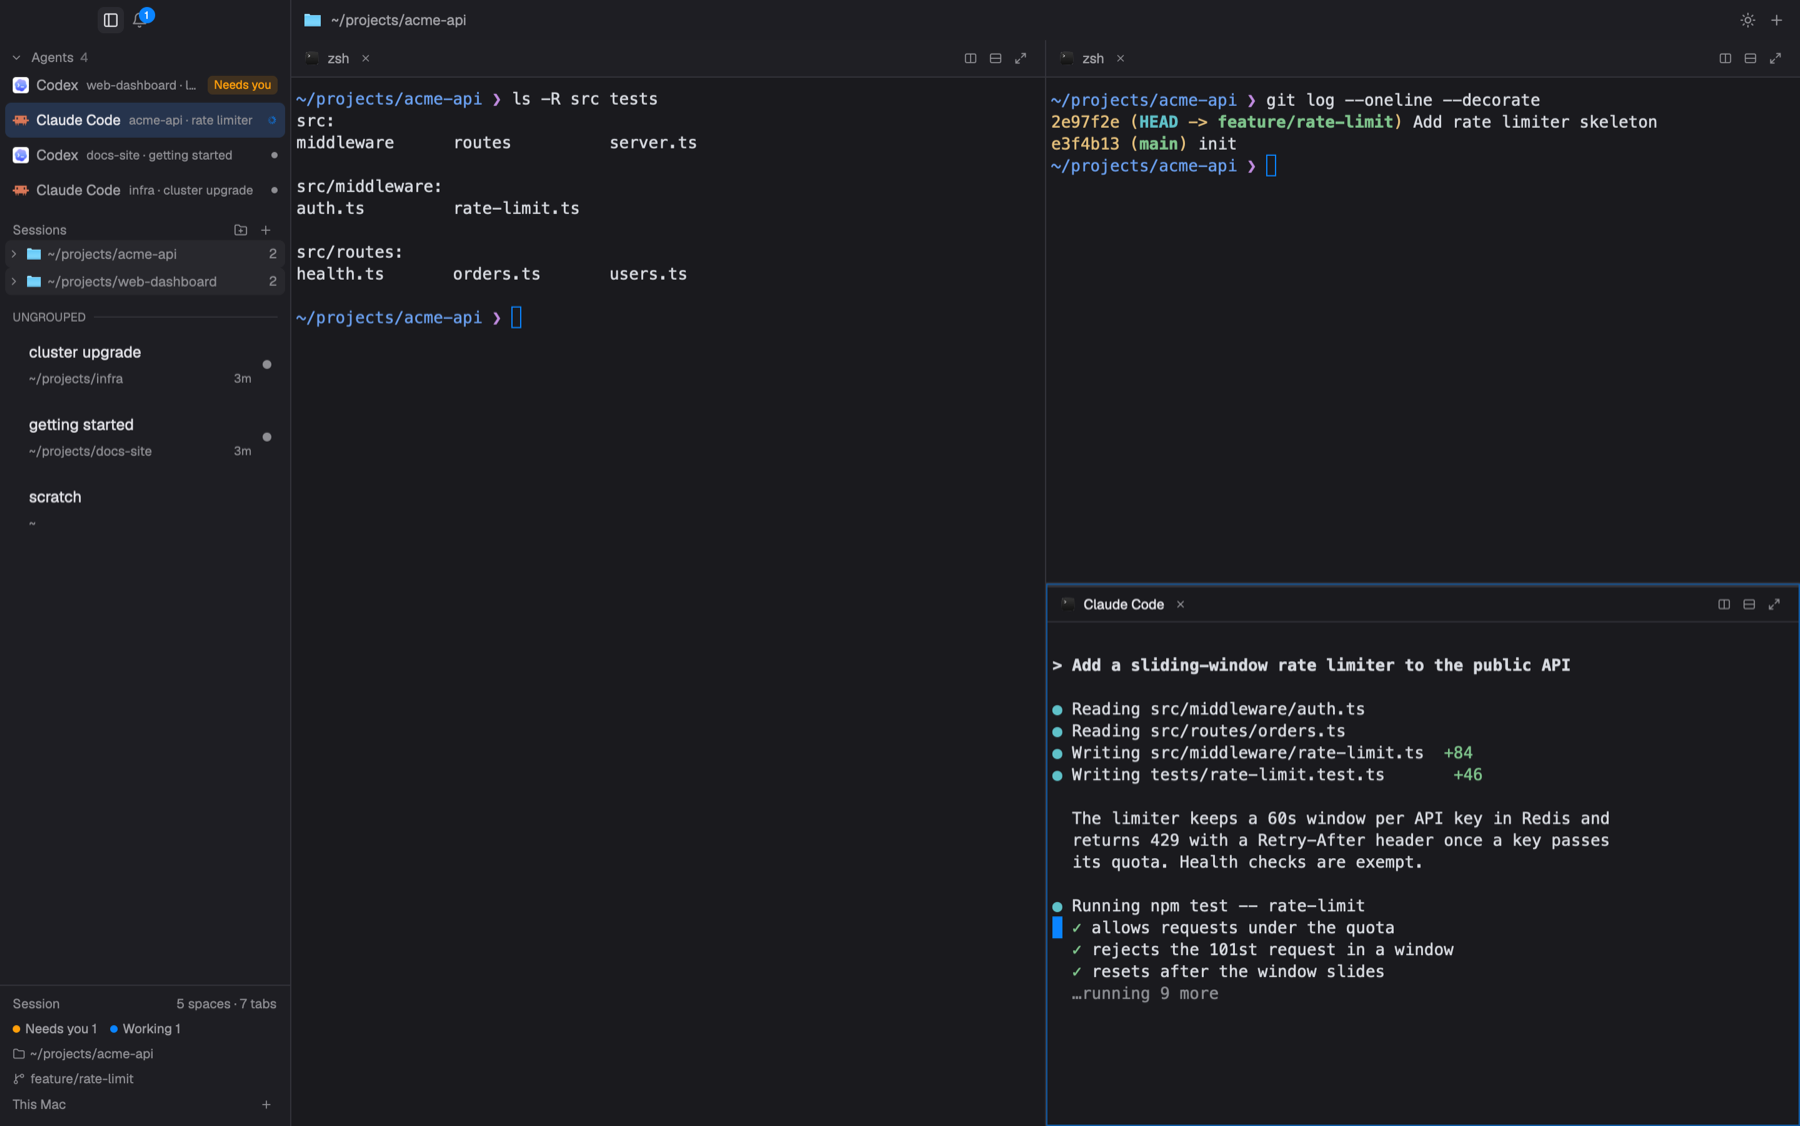
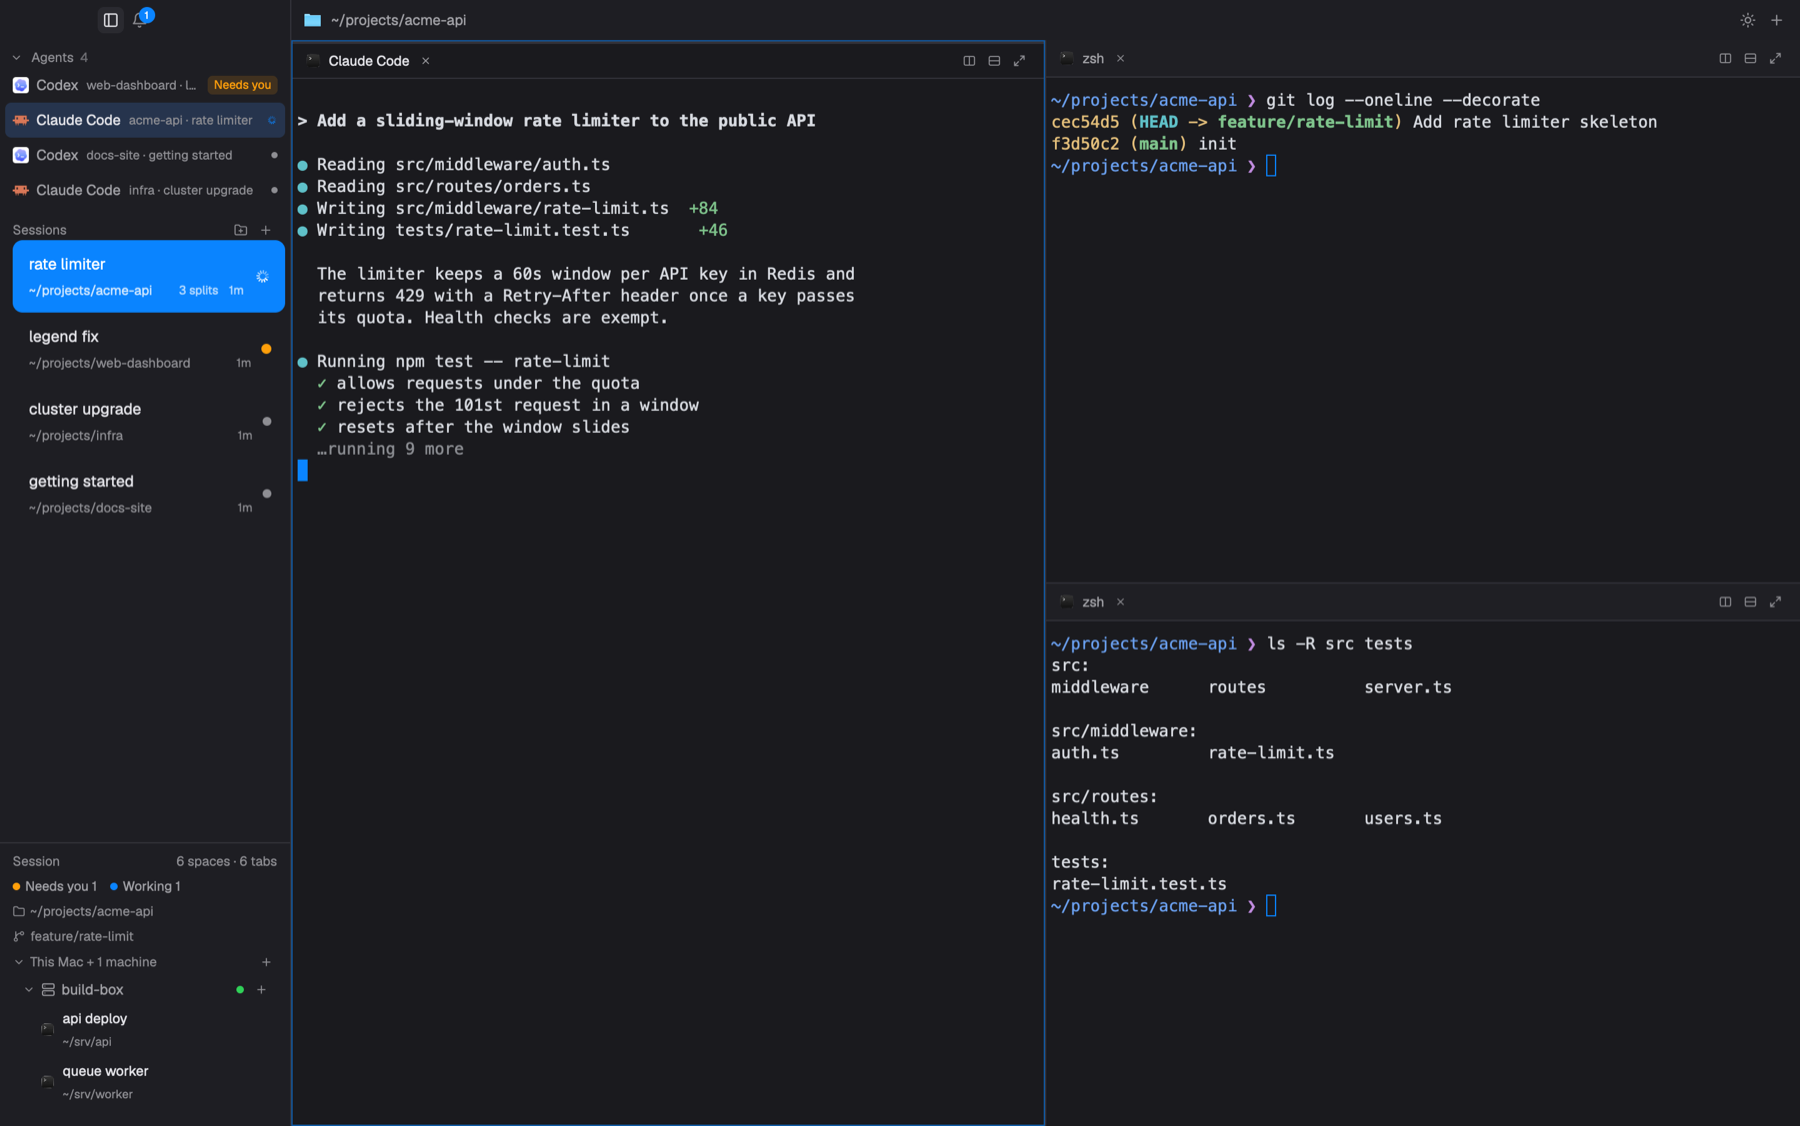
README hero shows a selected session and an SSH machine
The screenshots now show the selected session filled with the accent color
and a connected machine with its sessions in the footer. The machine is a
throwaway one reached through a local --via command, so nothing real shows.

diff --git a/README.md b/README.md
@@ -8,11 +8,12 @@ follows a light and a dark theme, switched from the title bar with a crossfade
 instead of a hard cut.
 
 <p align="center">
-  <img src="preview.png" alt="Hmux in its light theme: the agents and sessions sidebar beside a Claude Code pane and two shell panes" width="900">
+  <img src="preview.png" alt="Hmux in its light theme: agents on top, the selected session filled blue, an SSH machine with its sessions in the footer, beside a Claude Code pane and two shell panes" width="900">
+  <br><sub>The selected session fills with the accent color. SSH machines sit in the footer with their sessions, one click away.</sub>
 </p>
 
 <p align="center">
-  <img src="docs/dark.png" alt="Hmux in its dark theme, the same panes after a drag swapped them" width="900">
+  <img src="docs/dark.png" alt="Hmux in its dark theme, the same window" width="900">
   <br><sub>The same window in <code>hmux-black</code>: press the sun/moon button and it crossfades.</sub>
 </p>
 
